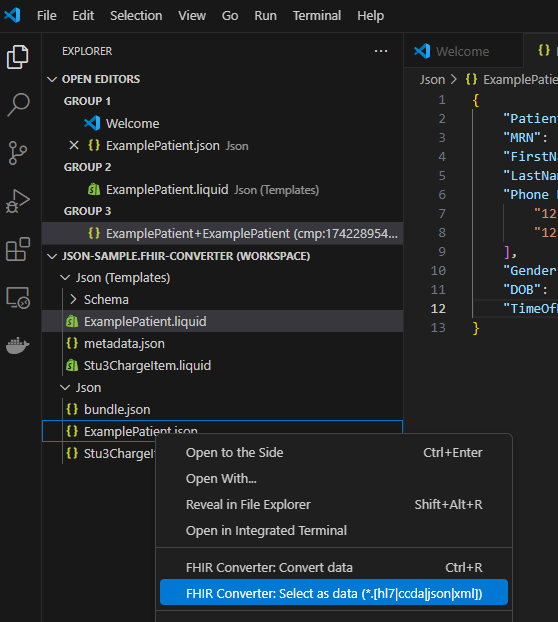
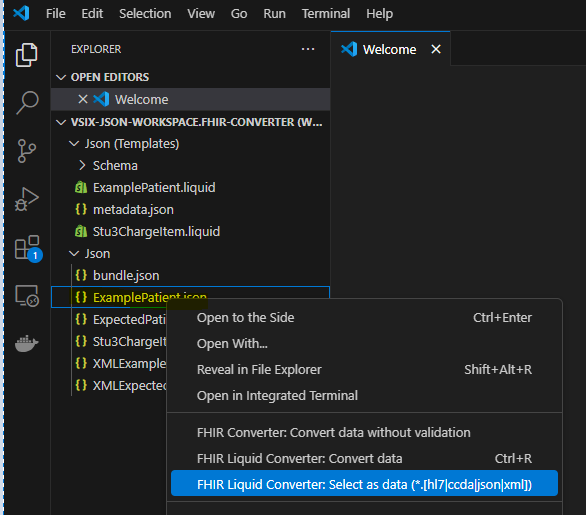
Merged PR 3742: Add extension installation script and clarify README documentation
This PR adds a new installation script and improves documentation:

- Introduced `install-engine.sh`, which uses the Servicewell NuGet package as the engine source.
- Clarified README instructions to better guide users during setup and conversion.
- Changed FHIR Converter to FHIR Liquid Converter in texts

Related work items: #7544

diff --git a/FHIR-Converter/README.md b/FHIR-Converter/README.md
@@ -1,7 +1,80 @@
 # Getting Started
-Read [GettingStarted.md](GettingStarted.md) to get a working environment
 
-For details on how to build and install the extension for testing, see the [Installation Guide](./INSTALLATION.md).
+## Start Converting
+
+> **Important:** Make sure you use the command  
+> **`FHIR Liquid Converter: Create a converter workspace`**  
+> *(provided by the Servicewell 'FHIR Liquid Converter' extension)*  
+> — **NOT**  
+> **`FHIR Converter: Create Workspace`**  
+> *(which comes from Microsoft's 'FHIR Converter' extension and is **not compatible**).*
+
+Creating the correct workspace is **essential** for the extension to function properly.
+
+### 1. Create a Workspace
+
+Follow these steps to set up your workspace correctly:
+
+1. **Open the Command Palette**  
+   In VS Code:  
+   `View → Command Palette` (`Ctrl + Shift + P`)
+
+2. **Run the Correct Command**  
+   Search for and select:  
+   **FHIR Liquid Converter: Create a converter workspace**  
+   *(Do NOT use Microsoft's similar-looking command.)*
+
+3. **Choose Template and Data Folders**  
+   When prompted, select:
+   - **Template folder** → Contains your FHIR transformation templates.
+   - **Data folder** → Contains your sample input data.
+
+   **Example folder structure:**
+      ```
+   data/
+   ├── Templates/Json
+   ├── SampleData/Json
+   ```
+
+
+# Run converter
+
+To run the converter, first make sure the workspace you created above is open.
+
+### 1. Select ExamplePatient.json as Data
+- Right click on **ExamplePatient.json** and select as the data file.
+
+![Select Data](docs/images/GettingStarted-SelectAsData.PNG)
+
+---
+
+### 2. Select ExamplePatient.liquid as Template
+- Right click on **ExamplePatient.liquid** and select as the template.
+
+![Select Template](docs/images/GettingStarted-SelectAsTemplate.PNG)
+
+---
+
+### 3. Run the Converter
+- Execute the conversion process.
+- Right click on **ExamplePatient.liquid** again and click Convert Data
+
+![Run Converter](docs/images/GettingStarted-ConvertData.PNG)
+
+---
+
+### 4. View the Result
+- You should now have three windows open:
+  - **Source data**
+  - **Liquid template**
+  - **Converted result**
+
+![Converted Result](docs/images/GettingStarted-Result.PNG)
+
+# Debugging
+Read [Developer Guide - Getting Started for Extension Developers](DEVELOPER_GUIDE_DEBUGGING.md) to setup a developer debugging environment
+
+
 # FHIR Converter VS Code extension
 
 [![Build Status](https://microsofthealth.visualstudio.com/Health/_apis/build/status/Resolute/Converter/Dev-CI-SecurityAssessment-VSCode-Tools?branchName=main)](https://microsofthealth.visualstudio.com/Health/_build/latest?definitionId=531&branchName=main)